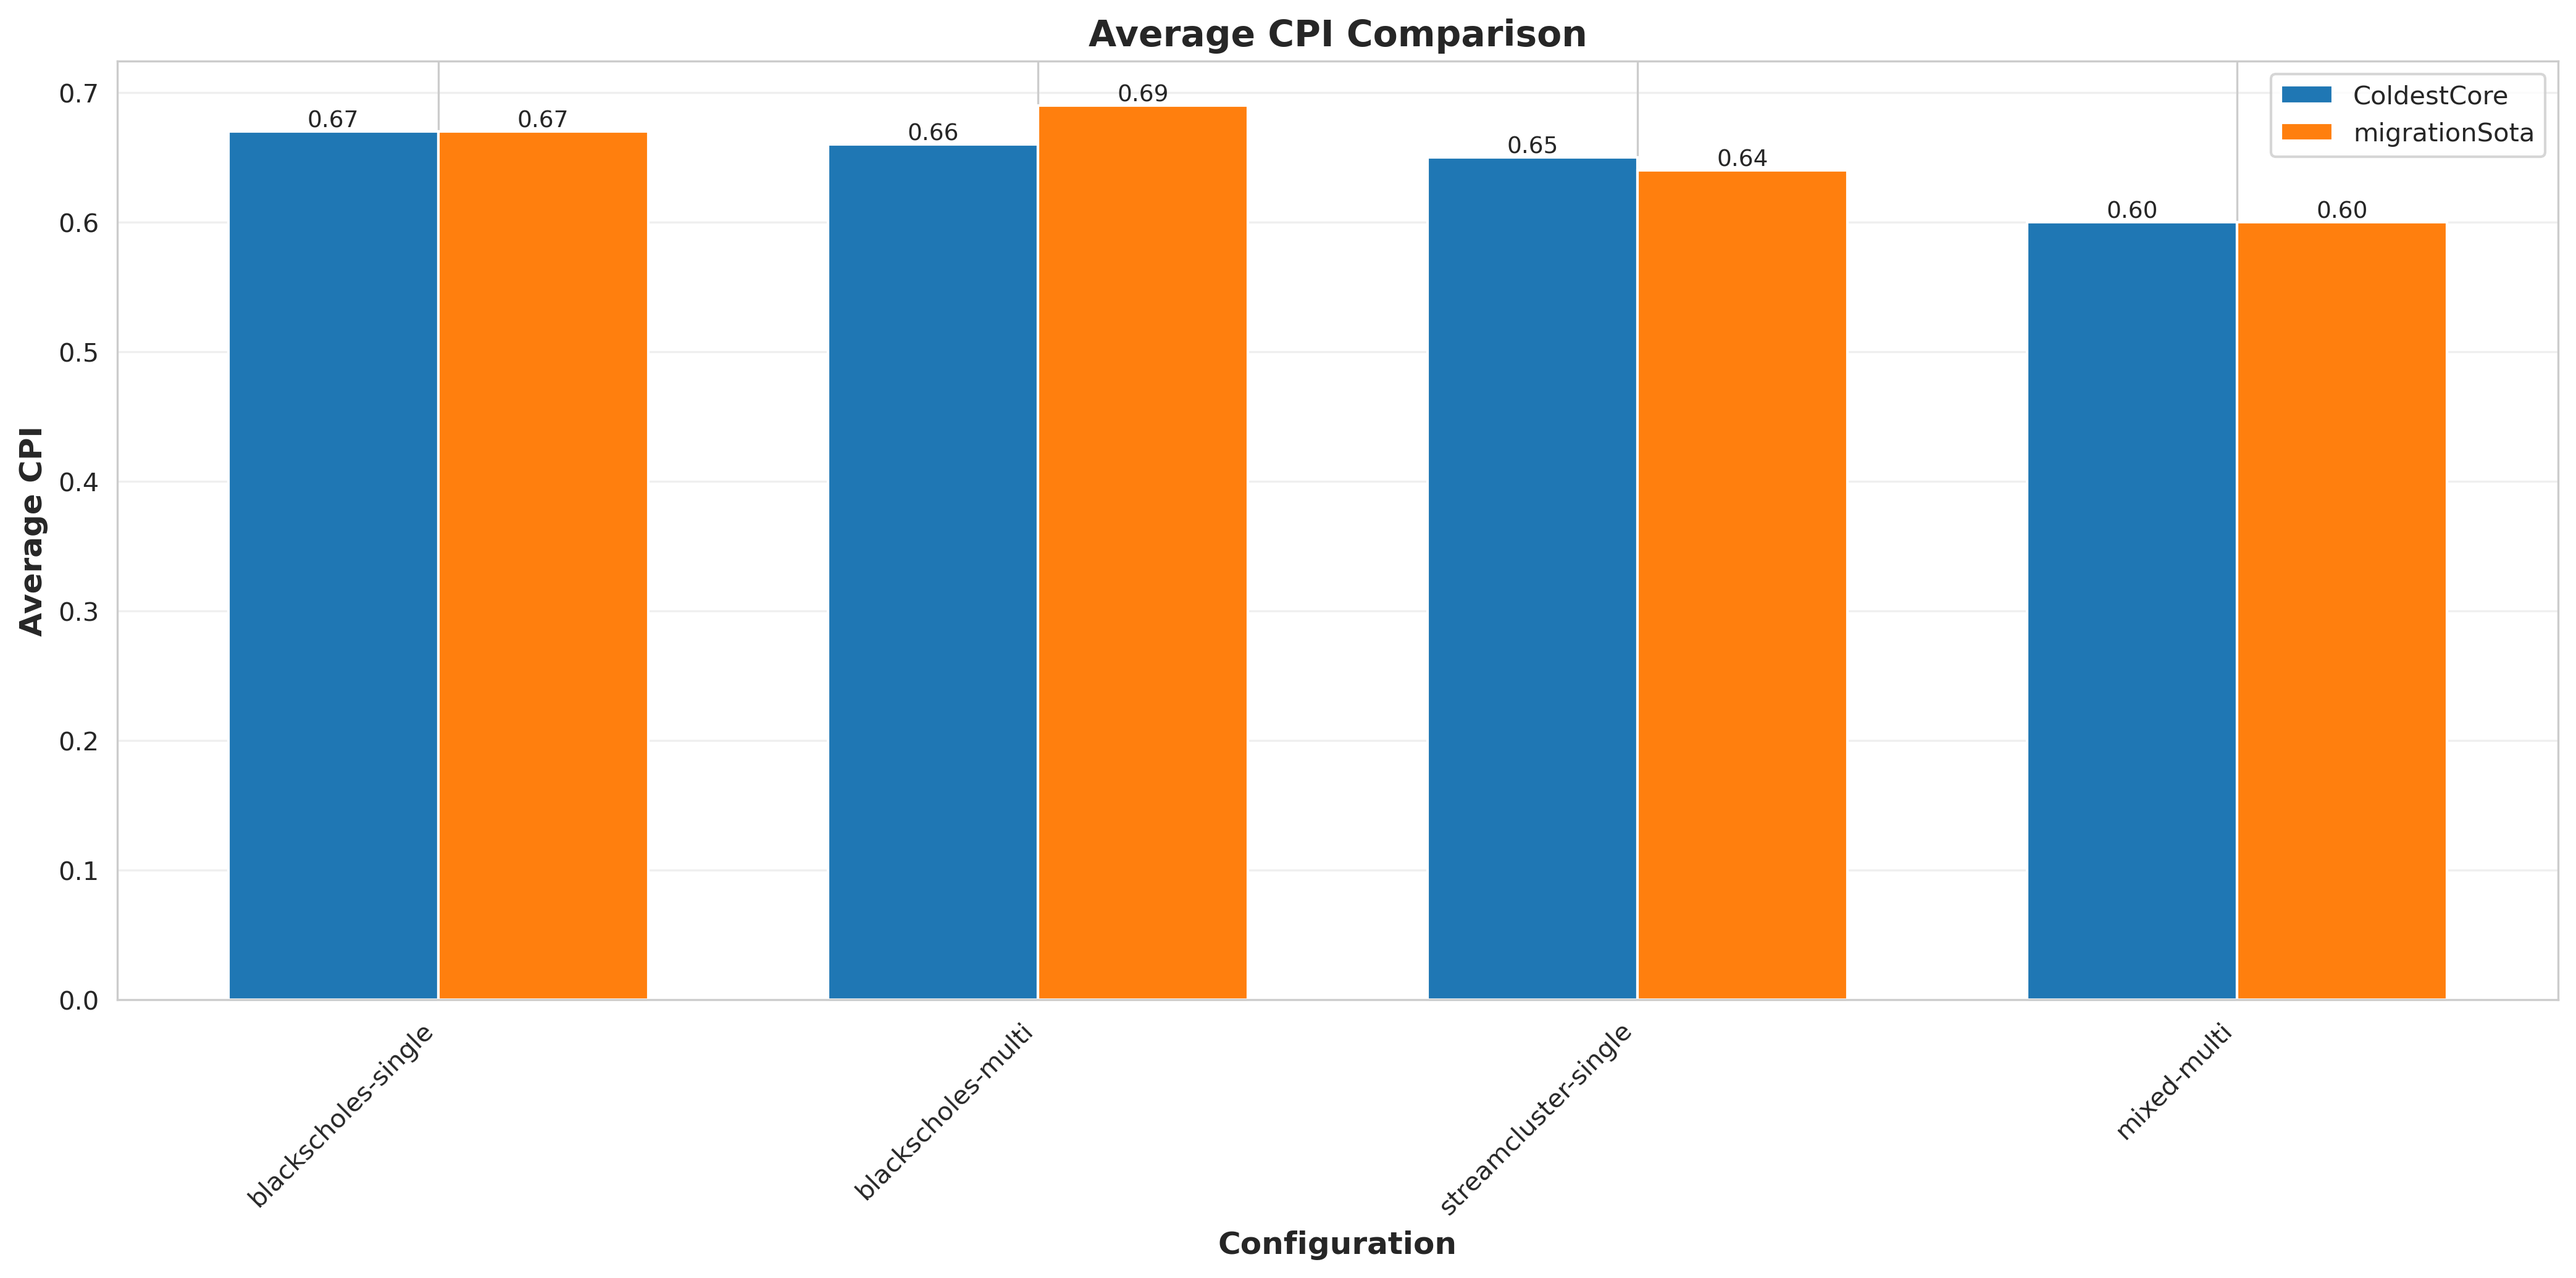
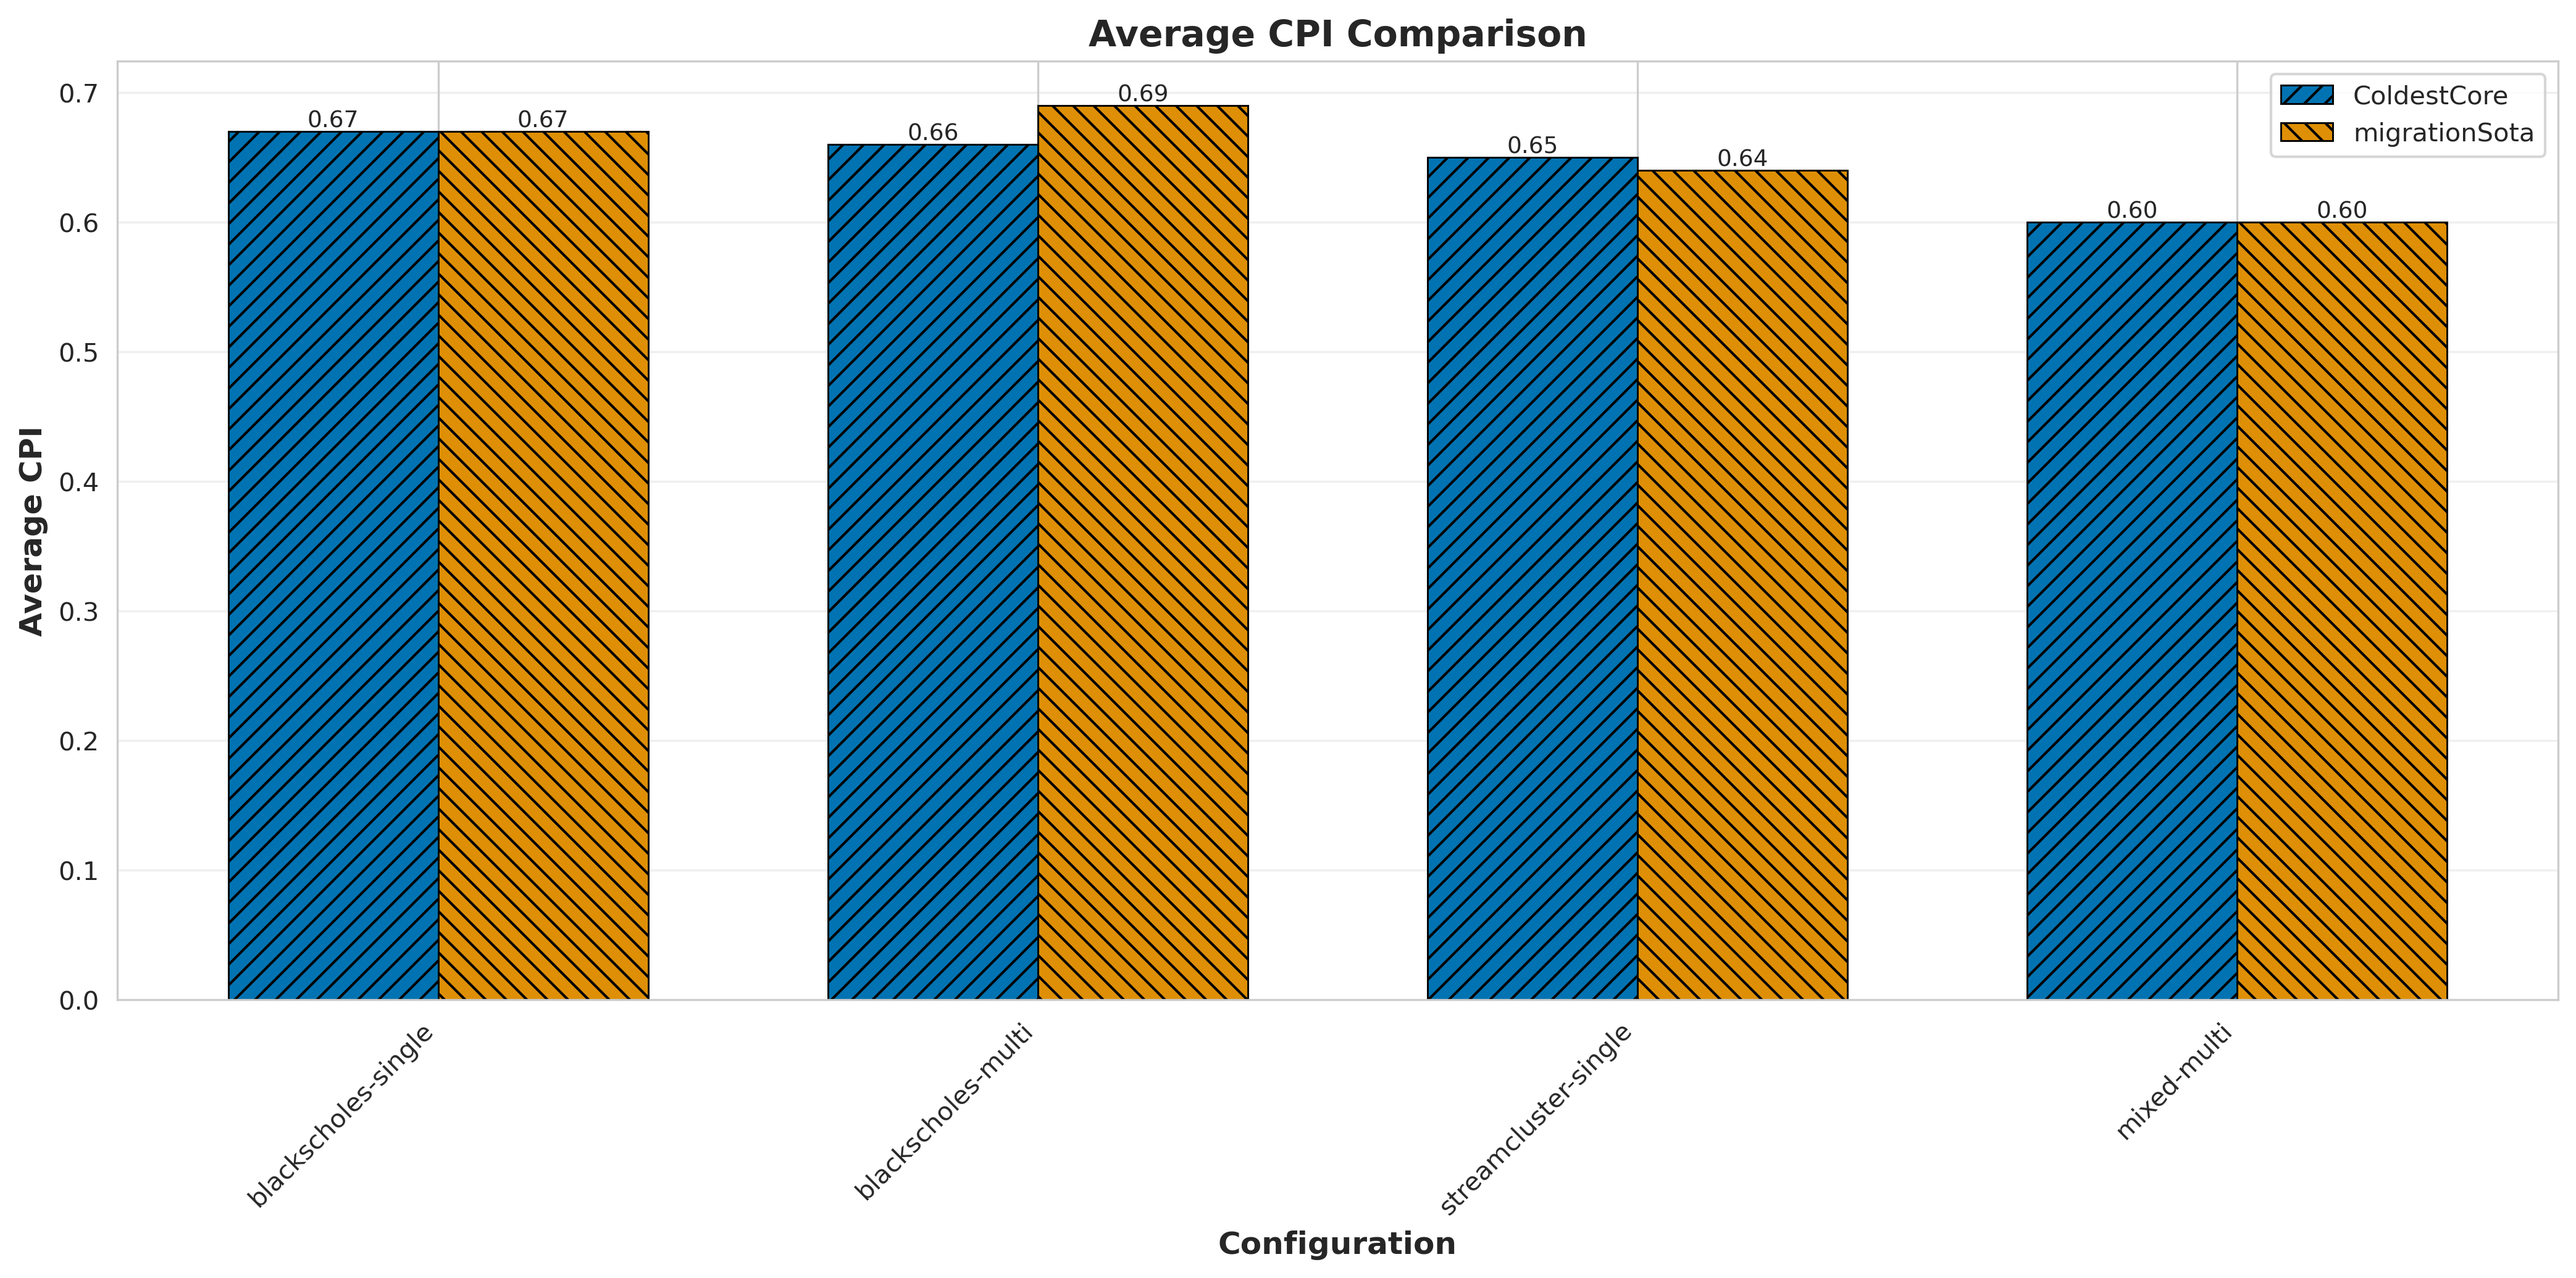
final version migrationSota

diff --git a/simulationcontrol/create_graphs.py b/simulationcontrol/create_graphs.py
@@ -7,6 +7,10 @@ import os
 sns.set_style("whitegrid")
 plt.rcParams['figure.figsize'] = (12, 6)
 
+# Colorblind-friendly palette (blue and orange with good contrast)
+colorblind_colors = ['#0173B2', '#DE8F05', '#029E73', '#CC78BC', '#CA9161', '#949494']
+hatches = ['///', '\\\\\\', '|||', '---', '+++', 'xxx']
+
 # Create output directory for graphs
 output_dir = 'graphs'
 os.makedirs(output_dir, exist_ok=True)
@@ -37,6 +41,7 @@ def create_label(row):
 
 df['benchmark'] = df.apply(create_label, axis=1)
 df['config'] = df['benchmark'] + '-' + df['benchmark_type'].str.replace('-program', '')
+df['config_with_governor'] = df['config'] + '-' + df['governor']
 
 # Create graphs for each metric
 for metric_col, metric_name in metrics.items():
@@ -59,7 +64,8 @@ for metric_col, metric_name in metrics.items():
             gov_data.append(val.values[0] if len(val) > 0 else 0)
         
         offset = width * (i - len(governors)/2 + 0.5)
-        bars = ax.bar([xi + offset for xi in x], gov_data, width, label=governor)
+        bars = ax.bar([xi + offset for xi in x], gov_data, width, label=governor,
+                      color=colorblind_colors[i], edgecolor='black', linewidth=0.7, hatch=hatches[i])
         
         # Add value labels on bars
         for bar in bars:
@@ -103,7 +109,8 @@ for idx, (metric_col, metric_name) in enumerate(metrics.items()):
             gov_data.append(val.values[0] if len(val) > 0 else 0)
         
         offset = width * (i - len(governors)/2 + 0.5)
-        ax.bar([xi + offset for xi in x], gov_data, width, label=governor)
+        ax.bar([xi + offset for xi in x], gov_data, width, label=governor,
+               color=colorblind_colors[i], edgecolor='black', linewidth=0.7, hatch=hatches[i])
     
     ax.set_xlabel('Configuration', fontsize=10, fontweight='bold')
     ax.set_ylabel(metric_name, fontsize=10, fontweight='bold')
@@ -129,19 +136,16 @@ width = 0.15
 
 for i, core_col in enumerate(core_temp_cols):
     offset = width * (i - len(core_temp_cols)/2 + 0.5)
-    ax.bar([xi + offset for xi in x], df[core_col], width, label=f'Core {i}')
+    ax.bar([xi + offset for xi in x], df[core_col], width, label=f'Core {i}',
+           color=colorblind_colors[i], edgecolor='black', linewidth=0.7, hatch=hatches[i])
 
-ax.set_xlabel('Run ID', fontsize=12, fontweight='bold')
+ax.set_xlabel('Configuration', fontsize=12, fontweight='bold')
 ax.set_ylabel('Temperature (°C)', fontsize=12, fontweight='bold')
 ax.set_title('Per-Core Temperature Comparison', fontsize=14, fontweight='bold')
 ax.set_xticks(x)
-ax.set_xticklabels(df['run_id'])
+ax.set_xticklabels(df['config_with_governor'], rotation=45, ha='right')
 ax.legend()
 ax.grid(axis='y', alpha=0.3)
-
-# Add governor labels
-for i, row in df.iterrows():
-    ax.text(i, -10, row['governor'][:4], ha='center', fontsize=8, rotation=45)
 
 plt.tight_layout()
 filename = f"{output_dir}/per_core_temperature.png"
@@ -156,18 +160,16 @@ core_power_cols = ['power_C0_W', 'power_C1_W', 'power_C2_W', 'power_C3_W']
 
 for i, core_col in enumerate(core_power_cols):
     offset = width * (i - len(core_power_cols)/2 + 0.5)
-    ax.bar([xi + offset for xi in x], df[core_col], width, label=f'Core {i}')
+    ax.bar([xi + offset for xi in x], df[core_col], width, label=f'Core {i}',
+           color=colorblind_colors[i], edgecolor='black', linewidth=0.7, hatch=hatches[i])
 
-ax.set_xlabel('Run ID', fontsize=12, fontweight='bold')
+ax.set_xlabel('Configuration', fontsize=12, fontweight='bold')
 ax.set_ylabel('Power (W)', fontsize=12, fontweight='bold')
 ax.set_title('Per-Core Power Comparison', fontsize=14, fontweight='bold')
 ax.set_xticks(x)
-ax.set_xticklabels(df['run_id'])
+ax.set_xticklabels(df['config_with_governor'], rotation=45, ha='right')
 ax.legend()
 ax.grid(axis='y', alpha=0.3)
-
-for i, row in df.iterrows():
-    ax.text(i, -0.5, row['governor'][:4], ha='center', fontsize=8, rotation=45)
 
 plt.tight_layout()
 filename = f"{output_dir}/per_core_power.png"
